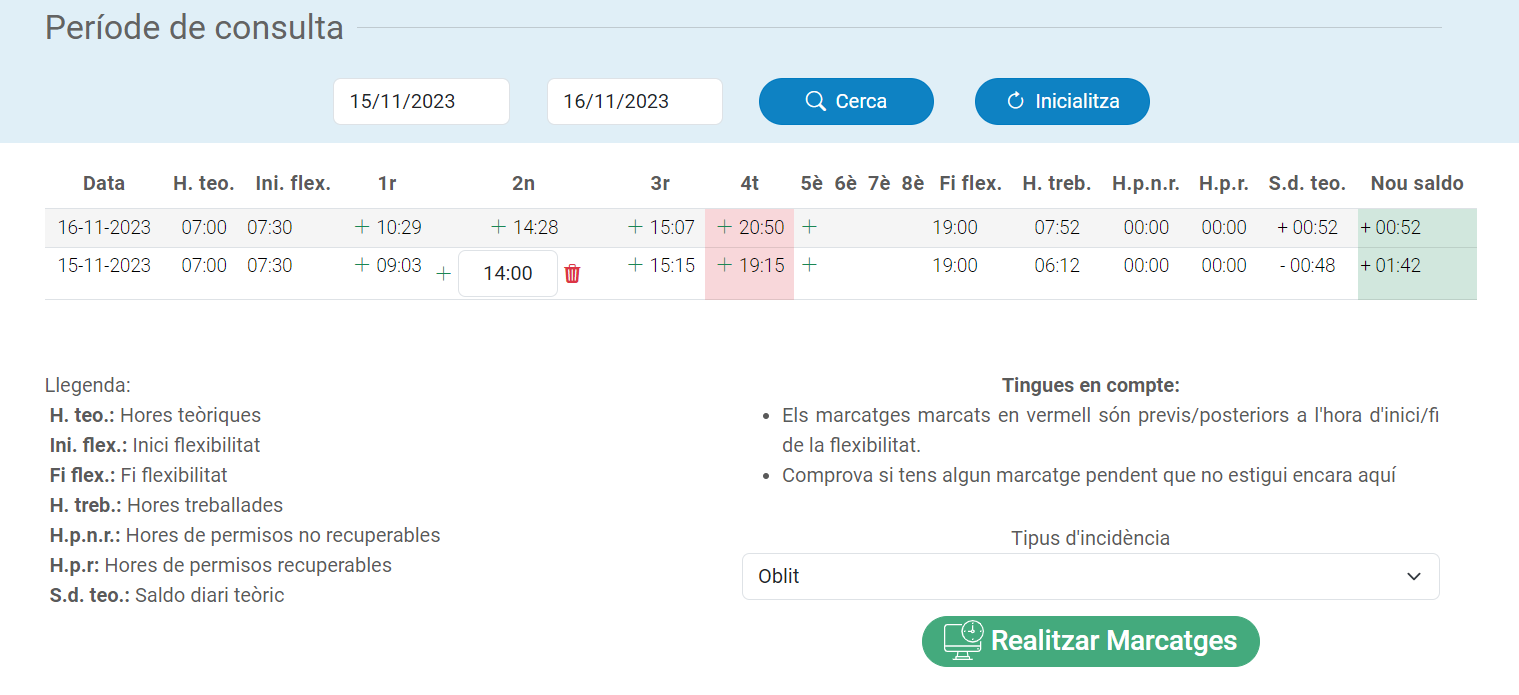
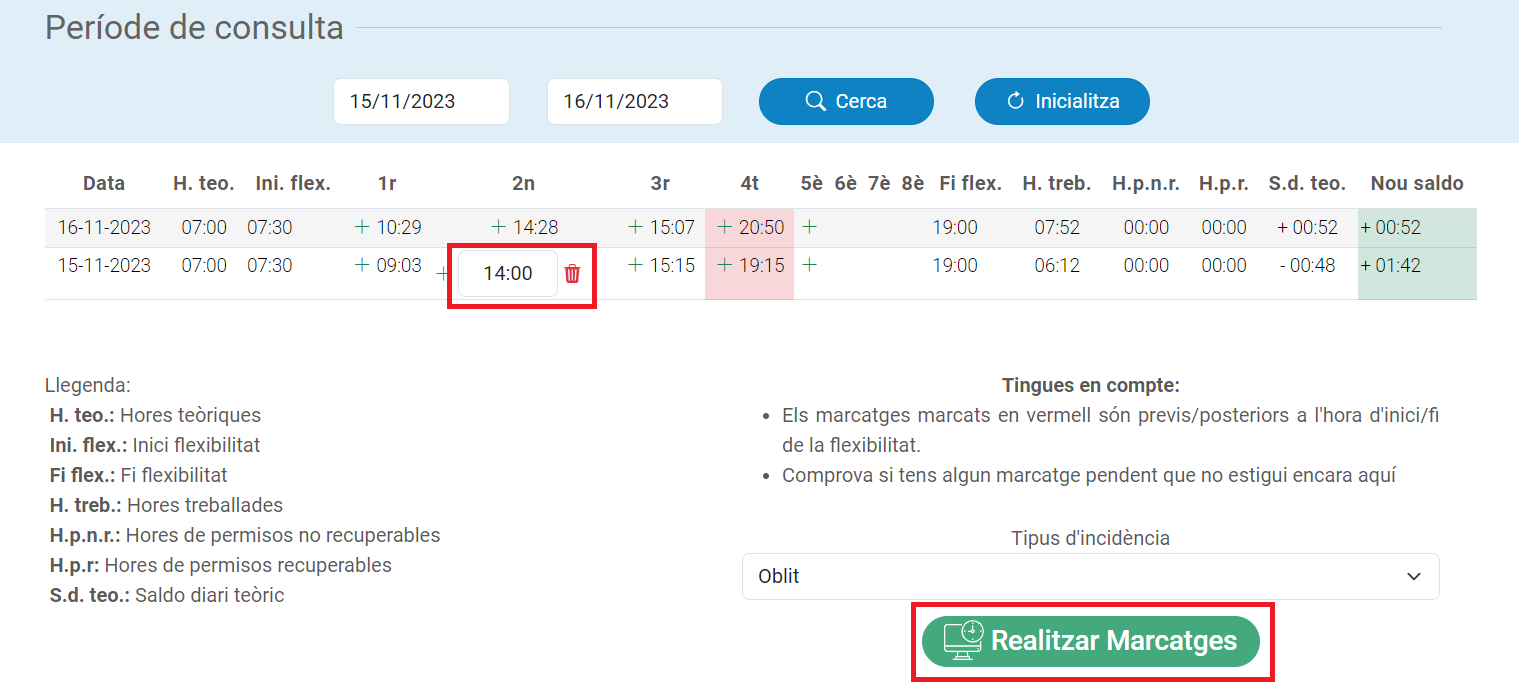
Update readme

Changed region(s): [[0.5879, 0.846, 0.8354, 0.9971], [0.2785, 0.3324, 0.4022, 0.4532], [0.8354, 0.8763, 0.8664, 0.9669]]

diff --git a/README.md b/README.md
@@ -40,9 +40,13 @@ Un cop tinguis el botó a la barra, simplement fes-hi clic des de la pàgina de 
 
 La taula de marcatges s'hauria d'haver ampliat amb columnes extres, colors i botons, tal i com es veu a la següent imatge:
 
+![Pas1](./docs/step1_original.PNG "Primer pas")
+
+A continuació, utilitza els botons (+) per afegir els marcatges necessaris. 
+
 ![Pas1](./docs/step1.PNG "Primer pas")
 
-A continuació, utilitza els botons (+) per afegir els marcatges necessaris. Un cop afegits tots, prem el botó de "Realitzar marcatges".
+Un cop afegits i omplerts, prem el botó de "Realitzar Marcatges".
 
 ![Pas2](./docs/step2.PNG "Segon pas")
 
